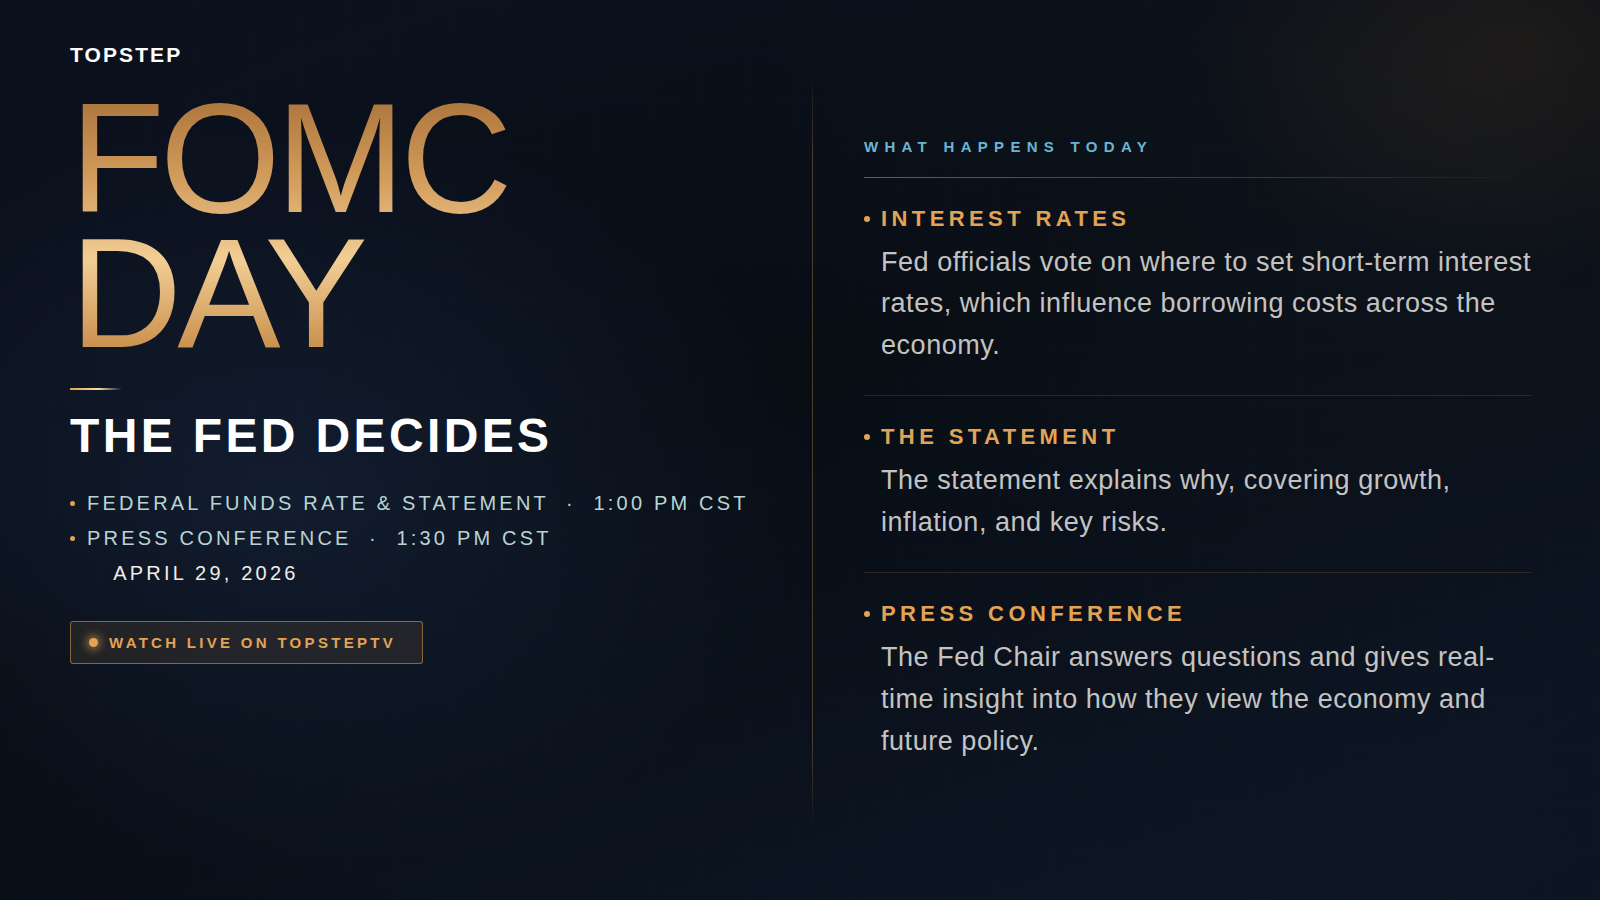
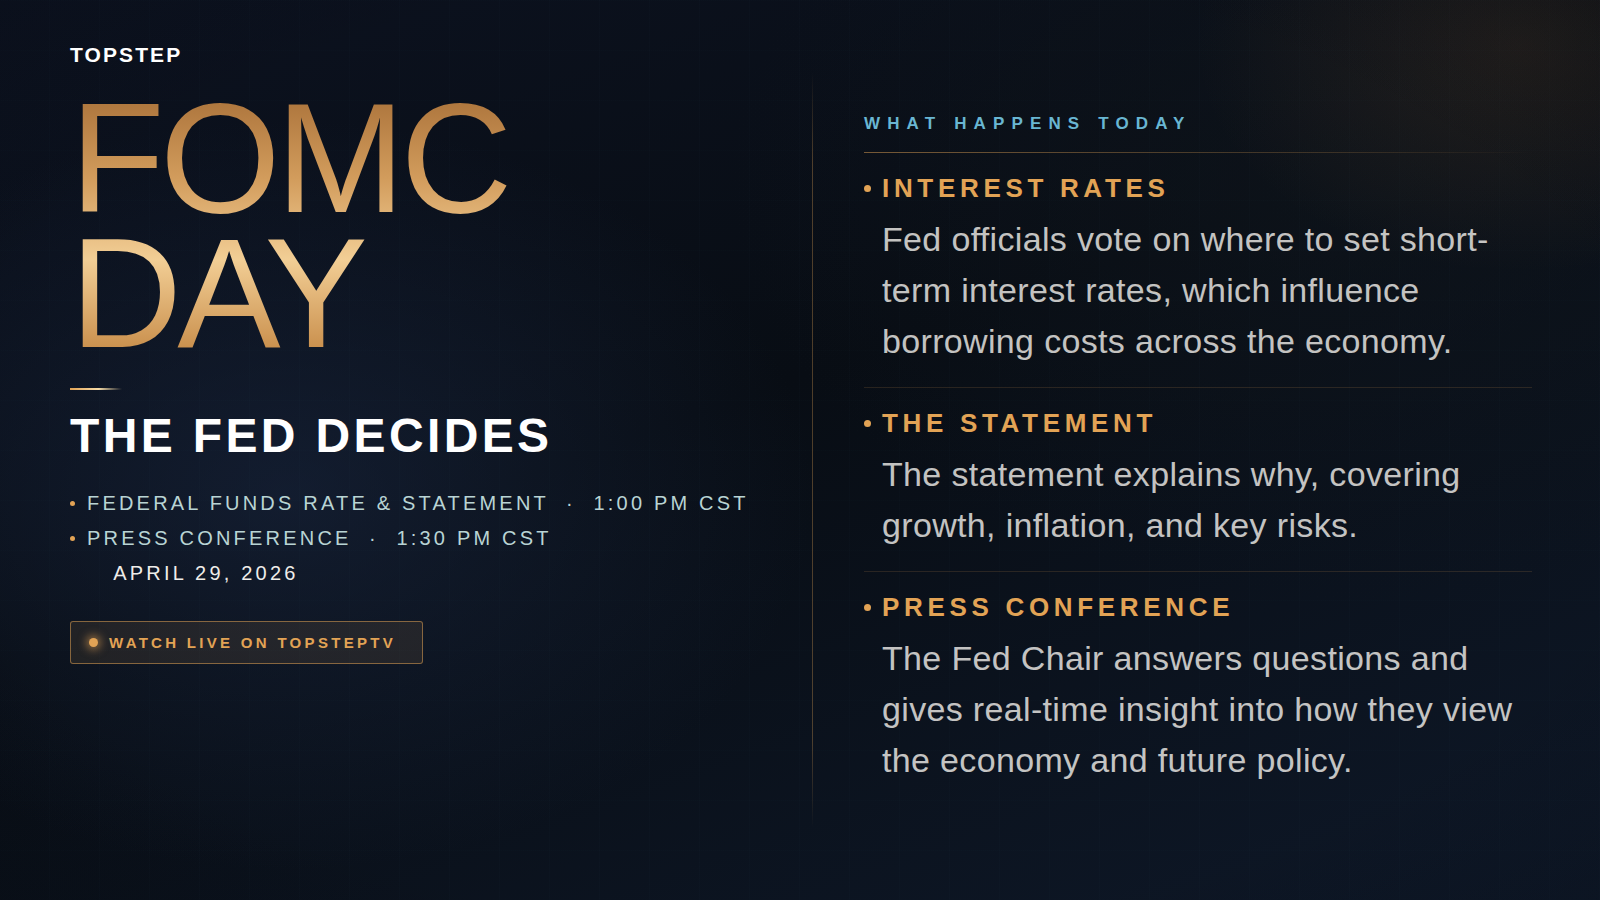
Major text size increase for social media legibility
Body text 27→34px, titles 22→26px — previous sizes were too small
for a 1600px image scaled down to social media display sizes.

https://claude.ai/code/session_01LDvWZueAZeo94jYbB9wQkH

diff --git a/fomc-day.html b/fomc-day.html
@@ -254,11 +254,11 @@
 
     .panel-label {
       font-weight: 600;
-      font-size: 15px;
+      font-size: 17px;
       letter-spacing: 0.42em;
       color: #69B6D2;
       text-transform: uppercase;
-      margin-bottom: 22px;
+      margin-bottom: 18px;
     }
 
     /* Top gold rule under label */
@@ -275,7 +275,7 @@
 
     /* Each stacked item */
     .v-item {
-      padding: 28px 0;
+      padding: 20px 0;
       border-bottom: 1px solid rgba(226,163,85,0.15);
     }
 
@@ -292,8 +292,8 @@
     }
 
     .v-pip {
-      width: 6px;
-      height: 6px;
+      width: 7px;
+      height: 7px;
       border-radius: 50%;
       background: #E2A355;
       flex-shrink: 0;
@@ -301,19 +301,19 @@
 
     .v-title {
       font-weight: 700;
-      font-size: 22px;
-      letter-spacing: 0.20em;
+      font-size: 26px;
+      letter-spacing: 0.18em;
       color: #E2A355;
       text-transform: uppercase;
     }
 
     .v-text {
       font-weight: 300;
-      font-size: 27px;
-      line-height: 1.55;
-      letter-spacing: 0.02em;
+      font-size: 34px;
+      line-height: 1.50;
+      letter-spacing: 0.01em;
       color: rgba(239,237,233,0.82);
-      padding-left: 17px;
+      padding-left: 18px;
     }
   </style>
 </head>
